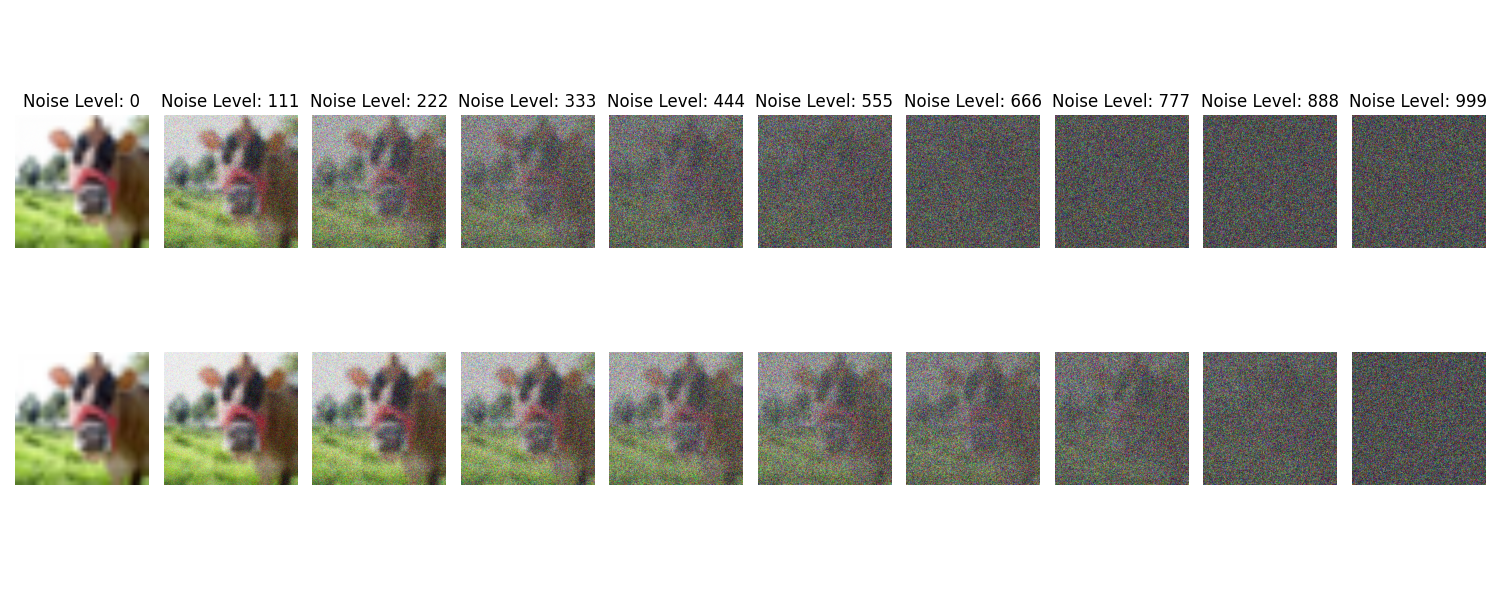
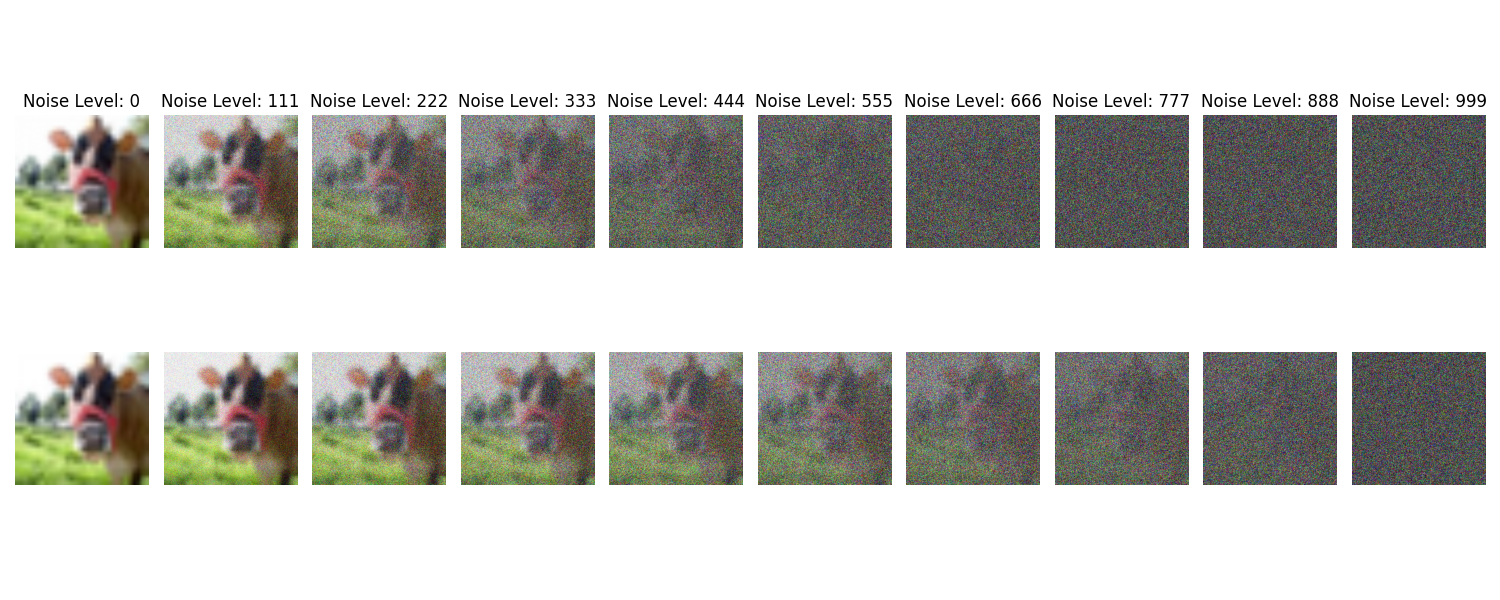
Sampling file + train modifications

Changed region(s): [[0.092, 0.18, 1.0, 0.42], [0.1227, 0.57, 1.0, 0.81]]

diff --git a/train.py b/train.py
@@ -1,5 +1,7 @@
 import torch
 import torch.nn as nn
+import torch.nn.functional as F
+from tqdm import tqdm
 from models.unet import UNet
 from diffusion import Diffusion
 from datasets import get_dataset
@@ -15,8 +17,8 @@ print(f"Using {DEVICE}")
 IMG_SIZE = 64
 dataset = get_dataset(IMG_SIZE)
 
-epochs = 1
-batch_size = 128
+epochs = 2
+batch_size = 512
 
 num_chn = dataset[0][0].shape[0]
 print(f"Number of channels: {num_chn}")
@@ -24,10 +26,9 @@ print(f"Number of channels: {num_chn}")
 lr = 3e-4
 
 dataloader = torch.utils.data.DataLoader(dataset, batch_size=batch_size, shuffle=True)
-model = UNet(c_in=1, c_out=1, layers=4).to(DEVICE)
+model = UNet(c_in=num_chn, c_out=num_chn).to(DEVICE)
 optimizer = torch.optim.AdamW(model.parameters(), lr=lr)
-criterion = nn.MSELoss()
-diffusion = Diffusion(img_size=IMG_SIZE, device=DEVICE, num_chn=num_chn)
+diffusion = Diffusion(img_size=IMG_SIZE, device=DEVICE, num_chn=num_chn, noise_sch='cosine')
 
 
 
@@ -35,6 +36,7 @@ model.train()
 torch.autograd.set_detect_anomaly(True)
 for epoch in range(epochs):
   print(f"Epoch {epoch}")
+  epoch_loss = 0
   for i, (img, _) in enumerate(dataloader):
     optimizer.zero_grad()
     img = img.to(DEVICE)
@@ -46,13 +48,22 @@ for epoch in range(epochs):
     noise_pred = model(x_noisy, t)
 
 
-    loss = criterion(noise_pred, noise)
+    loss = F.l1_loss(noise_pred, noise)
     loss.backward()
 
     optimizer.step()
     # if i % 100 == 0:
     print(f"Batch {i} | Loss {loss.item()}")
+    epoch_loss += loss.detach().item()
+  print(f"Epoch {epoch + 1}/{epochs}, Average Loss: {epoch_loss / len(dataloader):.4f}")
 
+
+checkpoint = {
+    'model': model.state_dict(),
+    'optimizer': optimizer.state_dict(),
+    'epoch': epoch,
+}
+torch.save(checkpoint, f"checkpoints/model_epoch={epoch}.pth")
 
 x = diffusion.sample(model, 1)
 from utils import plot_image

diff --git a/models/unet.py b/models/unet.py
@@ -15,7 +15,7 @@ class PositionalEmbeddings(nn.Module):
     # this is following
     embeddings = math.log(10000) / (half_dim - 1)
     embeddings = torch.exp(torch.arange(half_dim, device=device) * -embeddings)
-
+ 
     embeddings = t.unsqueeze(-1) * embeddings.unsqueeze(0)
     embeddings = torch.stack((embeddings.sin(), embeddings.cos()), dim=-1)
     embeddings = embeddings.view(t.shape[0], -1)
@@ -74,7 +74,7 @@ class SelfAttention(nn.Module):
       return x
     
 class UNet(nn.Module):
-    def __init__(self, c_in=3, c_out=3, layers=6, time_emb_dim=32, num_heads=4):
+    def __init__(self, c_in=3, c_out=3, layers=4, time_emb_dim=32, num_heads=4):
         super().__init__()
 
         # downs = [16, 32, 64, 128, 256, 512]
@@ -96,15 +96,18 @@ class UNet(nn.Module):
     def forward(self, x, t):
         t = self.time_embeddings(t)
         x = self.conv0(x)
-
+        skip_connections = []
         for down in self.downs:
             x = down(x, t)
+            skip_connections.append(x)
             x = F.avg_pool2d(x, kernel_size=2)
         # print(x.shape)
         x = self.attention(x)
-        for up in self.ups:
-            x = up(x, t)
+        for idx, up in enumerate(self.ups):
             x = F.interpolate(x, scale_factor=2, mode="nearest")
+            skip_connection = skip_connections[-(idx + 1)] 
+            x = x + skip_connection 
+            x = up(x, t)
 
 
         x = self.outconv(x)

diff --git a/sample.py b/sample.py
@@ -1,0 +1,29 @@
+from datasets import get_dataset
+from diffusion import Diffusion
+from models.unet import UNet
+from utils import plot_image
+import matplotlib.pyplot as plt
+import torch
+
+IMG_SIZE = 64
+DEVICE = 'cpu'
+if torch.cuda.is_available():
+    DEVICE = 'cuda'
+elif torch.backends.mps.is_available():
+    DEVICE = 'mps'
+
+
+diffusion = Diffusion(img_size=IMG_SIZE, device=DEVICE, num_chn=1, noise_sch='cosine')
+
+checkpoint = torch.load("checkpoints/model_epoch=1.pth")
+
+model = UNet(c_in=1, c_out=1).to(DEVICE)
+model.load_state_dict(checkpoint['model'])
+
+x = diffusion.sample(model, 10)
+fig, axes = plt.subplots(1, 10, figsize=(20, 2))
+for i in range(10):
+    axes[i].imshow(x[i].permute(1, 2, 0).cpu().numpy(),)
+    axes[i].axis('off')
+plt.show()
+
